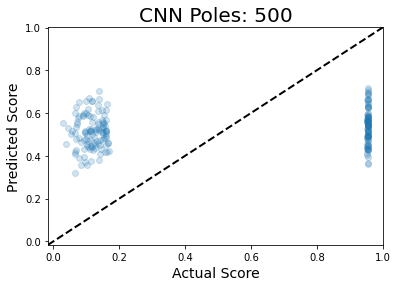
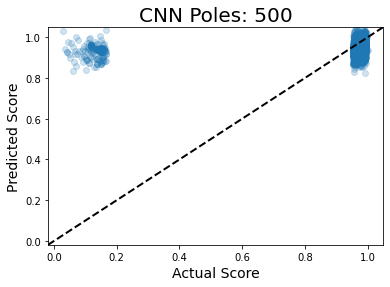
fix head tail

diff --git a/main.py b/main.py
@@ -337,7 +337,7 @@ def main():
     df_minus = pd.read_csv('minus_seq.txt', header=None)
     df_minus.columns = ["data", "label"]
     # data is sorted by %, asc
-    df_plus, df_minus = df_plus[:POLES: -1], df_minus[:POLES]
+    df_plus, df_minus = df_plus.tail(POLES), df_minus.head(POLES)
 
     df = pd.concat([df_plus, df_minus], axis=0).reset_index(drop=True)
     full_train_df, test_df = quick_split(df)
